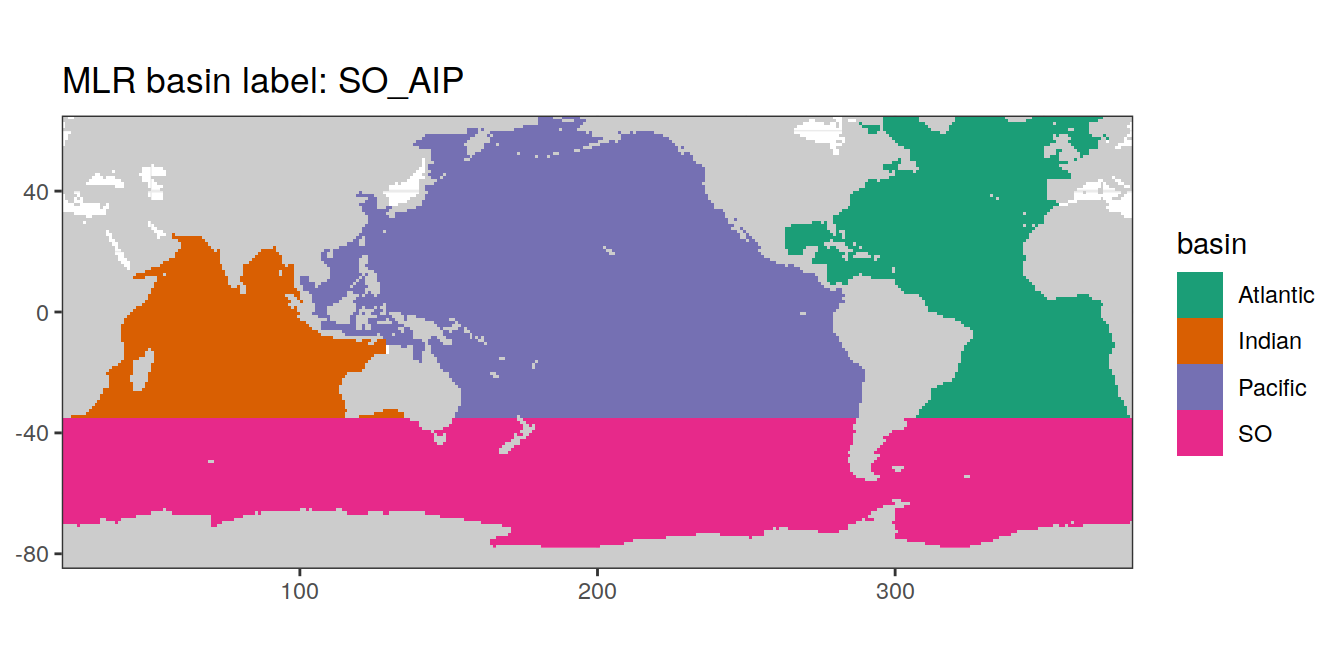
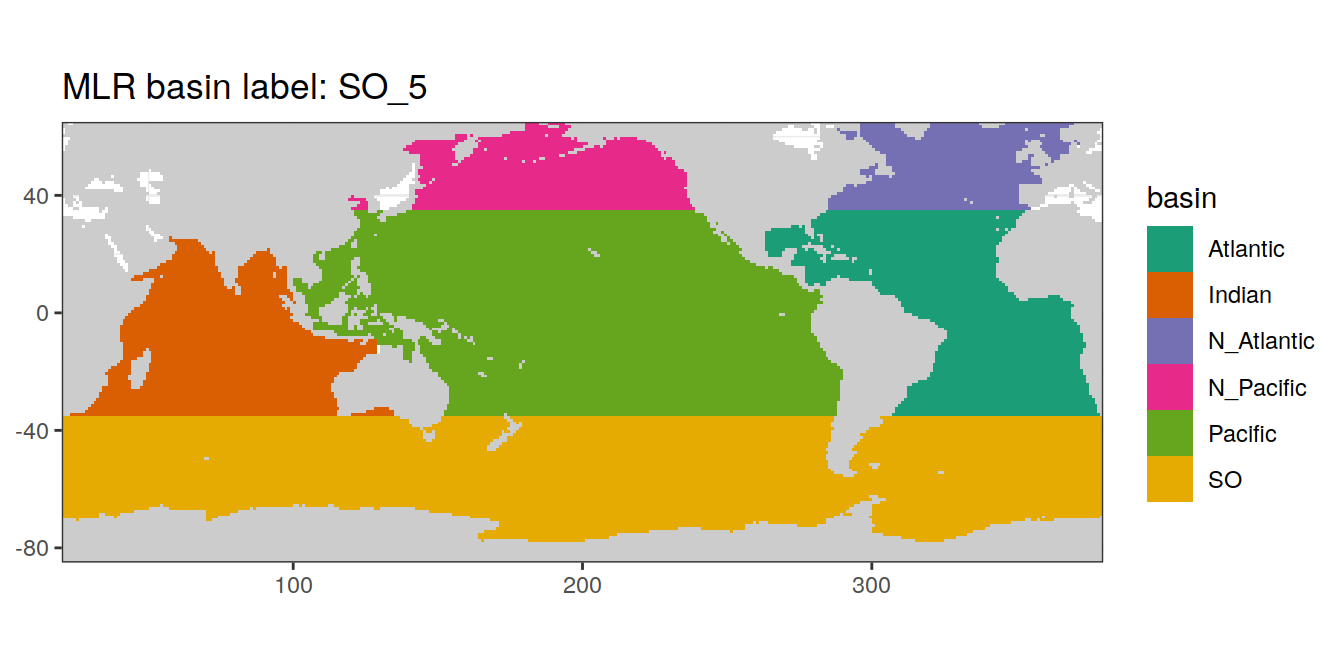
Build site.

diff --git a/docs/read_World_Ocean_Atlas_2018.html b/docs/read_World_Ocean_Atlas_2018.html
@@ -486,7 +486,7 @@ div.tocify {
 
 <h1 class="title toc-ignore">World Ocean Atlas 2018</h1>
 <h4 class="author">Jens Daniel Müller</h4>
-<h4 class="date">07 July, 2021</h4>
+<h4 class="date">16 July, 2021</h4>
 
 </div>
 
@@ -511,7 +511,7 @@ div.tocify {
 <div class="tab-content">
 <div id="summary" class="tab-pane fade in active">
 <p>
-<strong>Last updated:</strong> 2021-07-07
+<strong>Last updated:</strong> 2021-07-16
 </p>
 <p>
 <strong>Checks:</strong> <span class="glyphicon glyphicon-ok text-success" aria-hidden="true"></span> 7 <span class="glyphicon glyphicon-exclamation-sign text-danger" aria-hidden="true"></span> 0
@@ -602,16 +602,16 @@ This reproducible <a href="http://rmarkdown.rstudio.com">R Markdown</a> analysis
 <div class="panel panel-default">
 <div class="panel-heading">
 <p class="panel-title">
-<a data-toggle="collapse" data-parent="#workflowr-checks" href="#strongRepositoryversionstrongahrefhttpsgithubcomjensdanielmuelleremlrobspreprocessingtree6312bd47a8a3ae4b77c1e3359246324f3f7df734targetblank6312bd4a"> <span class="glyphicon glyphicon-ok text-success" aria-hidden="true"></span> <strong>Repository version:</strong> <a href="https://github.com/jens-daniel-mueller/emlr_obs_preprocessing/tree/6312bd47a8a3ae4b77c1e3359246324f3f7df734" target="_blank">6312bd4</a> </a>
+<a data-toggle="collapse" data-parent="#workflowr-checks" href="#strongRepositoryversionstrongahrefhttpsgithubcomjensdanielmuelleremlrobspreprocessingtreeda1b7706d953471f88d03e4e571fc49081c0d232targetblankda1b770a"> <span class="glyphicon glyphicon-ok text-success" aria-hidden="true"></span> <strong>Repository version:</strong> <a href="https://github.com/jens-daniel-mueller/emlr_obs_preprocessing/tree/da1b7706d953471f88d03e4e571fc49081c0d232" target="_blank">da1b770</a> </a>
 </p>
 </div>
[2 lines of base64/hex data omitted]
 <div class="panel-body">
 <p>
 Great! You are using Git for version control. Tracking code development and connecting the code version to the results is critical for reproducibility.
 </p>
 <p>
-The results in this page were generated with repository version <a href="https://github.com/jens-daniel-mueller/emlr_obs_preprocessing/tree/6312bd47a8a3ae4b77c1e3359246324f3f7df734" target="_blank">6312bd4</a>. See the <em>Past versions</em> tab to see a history of the changes made to the R Markdown and HTML files.
+The results in this page were generated with repository version <a href="https://github.com/jens-daniel-mueller/emlr_obs_preprocessing/tree/da1b7706d953471f88d03e4e571fc49081c0d232" target="_blank">da1b770</a>. See the <em>Past versions</em> tab to see a history of the changes made to the R Markdown and HTML files.
 </p>
 <p>
 Note that you need to be careful to ensure that all relevant files for the analysis have been committed to Git prior to generating the results (you can use <code>wflow_publish</code> or <code>wflow_git_commit</code>). workflowr only checks the R Markdown file, but you know if there are other scripts or data files that it depends on. Below is the status of the Git repository when the results were generated:
@@ -621,13 +621,6 @@ Ignored files:
     Ignored:    .Rhistory
     Ignored:    .Rproj.user/
     Ignored:    data/
-
-Unstaged changes:
-    Modified:   README.md
-    Modified:   analysis/_site.yml
-    Deleted:    analysis/read_Gruber_2019_Cant.Rmd
-    Deleted:    analysis/read_Sabine_2004_Cant.Rmd
-    Modified:   code/Workflowr_project_managment.R
 
 </code></pre>
 <p>
@@ -666,6 +659,40 @@ Message
 </tr>
 </thead>
 <tbody>
+<tr>
+<td>
+Rmd
+</td>
+<td>
+<a href="https://github.com/jens-daniel-mueller/emlr_obs_preprocessing/blob/da1b7706d953471f88d03e4e571fc49081c0d232/analysis/read_World_Ocean_Atlas_2018.Rmd" target="_blank">da1b770</a>
+</td>
+<td>
+jens-daniel-mueller
+</td>
+<td>
+2021-07-16
+</td>
+<td>
+added SO_5 basin mask
+</td>
+</tr>
+<tr>
+<td>
+html
+</td>
+<td>
+<a href="https://rawcdn.githack.com/jens-daniel-mueller/emlr_obs_preprocessing/e49875a0d0fbae4d5fa6b2b11ee2a781388457e1/docs/read_World_Ocean_Atlas_2018.html" target="_blank">e49875a</a>
+</td>
+<td>
+jens-daniel-mueller
+</td>
+<td>
+2021-07-07
+</td>
+<td>
+Build site.
+</td>
+</tr>
 <tr>
 <td>
 html
@@ -1699,6 +1726,21 @@ basinmask_SO &lt;- basinmask_01 %&gt;%
   ) %&gt;%
   mutate(MLR_basins = &quot;SO&quot;)
 
+
+# SO_5 basin separate
+basinmask_SO_5 &lt;- basinmask_01 %&gt;%
+  mutate(
+    basin = case_when(
+      basin_AIP ==  &quot;Atlantic&quot; &amp; lat &gt; 35 ~ &quot;N_Atlantic&quot;,
+      basin_AIP ==  &quot;Atlantic&quot; &amp; lat &lt; 35 ~ &quot;Atlantic&quot;,
+      basin_AIP ==  &quot;Pacific&quot; &amp; lat &gt; 35 ~ &quot;N_Pacific&quot;,
+      basin_AIP ==  &quot;Pacific&quot; &amp; lat &lt; 35 ~ &quot;Pacific&quot;,
+      basin_AIP ==  &quot;Indian&quot; ~ &quot;Indian&quot;
+    ),
+    basin = if_else(lat &lt; params_global$lat_min_SO, &quot;SO&quot;, basin)
+  ) %&gt;%
+  mutate(MLR_basins = &quot;SO_5&quot;)
+
 # SO basin separate, with others being AIP
 basinmask_SO_AIP &lt;- basinmask_01 %&gt;%
   mutate(
@@ -1714,7 +1756,8 @@ basinmask_AIP &lt;- basinmask_01 %&gt;%
   mutate(MLR_basins = &quot;AIP&quot;)
 
 # join basin masks into one file
-basinmask_01 &lt;- bind_rows(basinmask_01, basinmask_5, basinmask_SO, basinmask_SO_AIP, basinmask_AIP)</code></pre>
+basinmask_01 &lt;- bind_rows(basinmask_01, basinmask_5, basinmask_SO, basinmask_SO_5,
+                          basinmask_SO_AIP, basinmask_AIP)</code></pre>
 <pre class="r"><code>for (i_MLR_basins in unique(basinmask_01$MLR_basins)) {
   
   print(
@@ -2215,6 +2258,7 @@ jens-daniel-mueller
 </table>
 </div>
 </div>
+<p><img src="figure/read_World_Ocean_Atlas_2018.Rmd/basin_masks_WOA18_map-6.png" width="672" style="display: block; margin: auto;" /></p>
 </div>
 </div>
 <div id="global-section" class="section level2" number="2.3">
